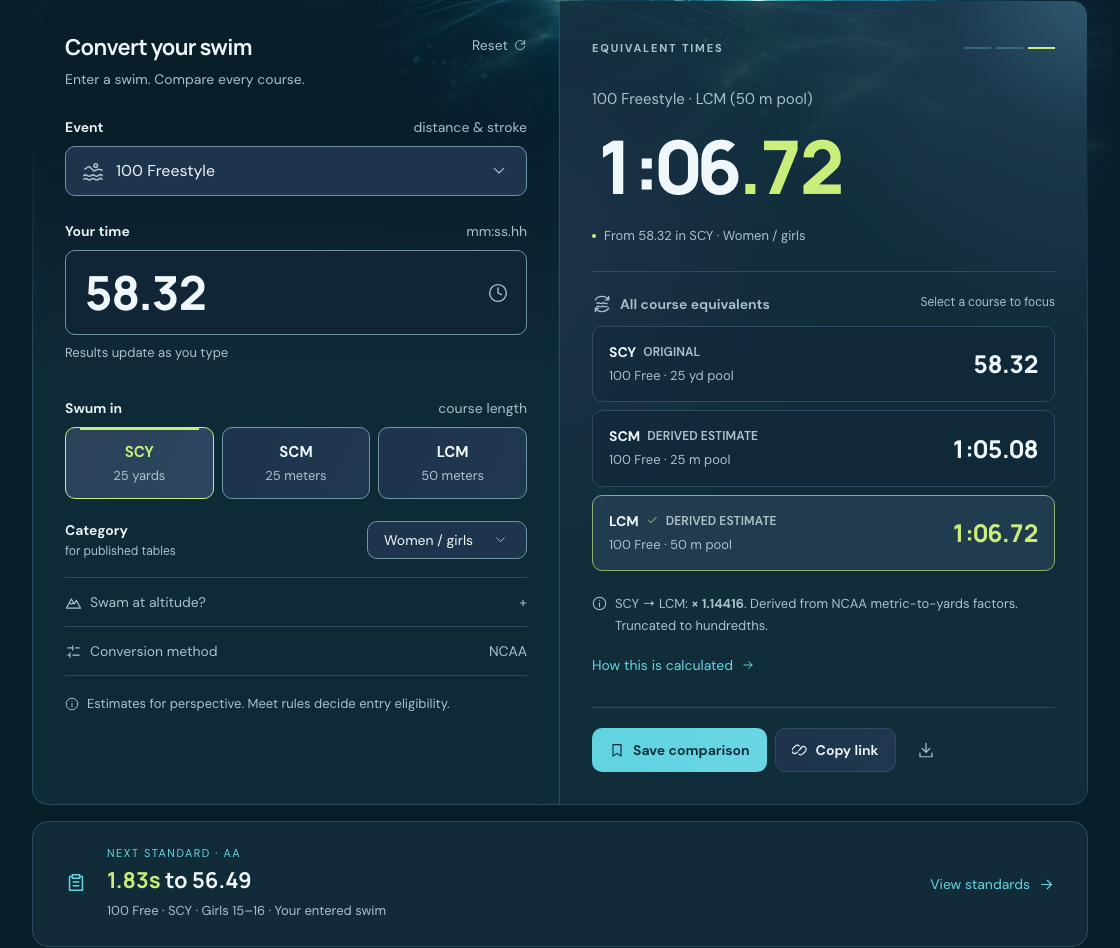
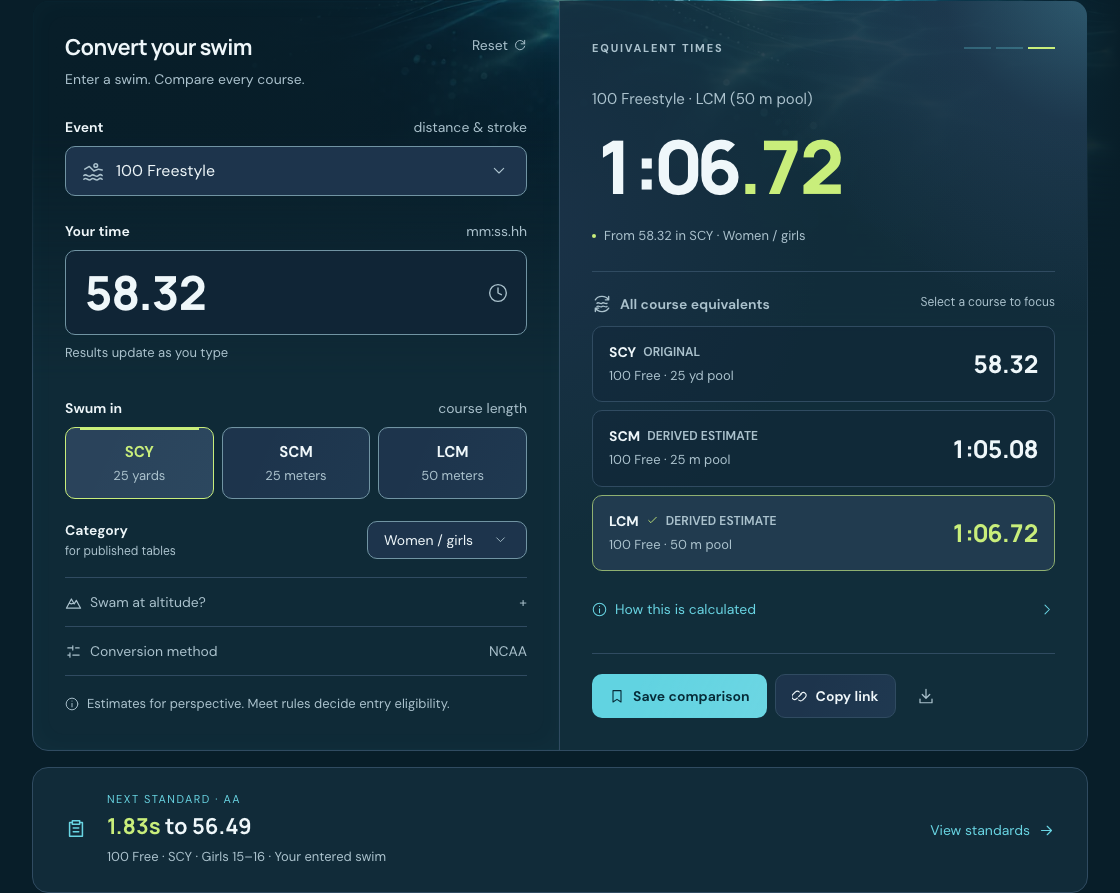
Tighten phone comparison and disclose calculation details

diff --git a/src/converter.css b/src/converter.css
@@ -643,11 +643,19 @@
   display: none;
 }
 .result-card:focus-visible {
-  background: color-mix(in srgb, var(--accent) 7%, transparent);
+  border-color: var(--tm-color-border-control);
+}
+.result-card.selected:focus-visible {
+  border-color: color-mix(in srgb, var(--highlight) 80%, var(--line));
 }
 @media (hover: hover) and (pointer: fine) {
   .result-card:hover {
     background: color-mix(in srgb, var(--accent) 7%, transparent);
+    border-color: var(--tm-color-border-control);
+  }
+  .result-card.selected:hover {
+    background: color-mix(in srgb, var(--selected) 74%, transparent);
+    border-color: color-mix(in srgb, var(--highlight) 80%, var(--line));
   }
 }
 .result-card.selected .result-card-top svg {
@@ -744,15 +752,32 @@
   flex-shrink: 0;
   font-size: 14px;
 }
-.result-explanation {
-  display: flex;
-  align-items: flex-start;
-  gap: 8px;
-  color: var(--muted);
-  margin-top: 22px;
+.result-method {
+  margin-top: var(--tm-space-16);
 }
-.result-explanation > svg {
-  margin-top: 3px;
+.result-method > summary {
+  display: flex;
+  align-items: center;
+  justify-content: space-between;
+  gap: var(--tm-space-12);
+  min-height: 44px;
+  color: var(--accent);
+  font-size: 14px;
+}
+.result-method > summary > span {
+  display: inline-flex;
+  align-items: center;
+  gap: var(--tm-space-8);
+}
+.result-method > summary > svg {
+  transition: transform 180ms ease;
+}
+.result-method[open] > summary > svg {
+  transform: rotate(90deg);
+}
+.result-explanation {
+  color: var(--muted);
+  padding-top: var(--tm-space-8);
 }
 .result-explanation p {
   font-size: 13px;
@@ -1164,17 +1189,22 @@
     font-size: 16px;
   }
   .focused-result {
-    margin-top: 26px;
-    margin-bottom: var(--tm-space-24);
+    margin-top: var(--tm-space-16);
+    margin-bottom: var(--tm-space-20);
   }
   .focused-context {
     font-size: 14px;
+    margin-bottom: var(--tm-space-8);
   }
   .focused-time {
     font-size: clamp(30px, 20cqw, 90px);
   }
   .focused-provenance {
     font-size: 13px;
+    margin-top: var(--tm-space-12);
+  }
+  .equivalents-title {
+    padding-top: var(--tm-space-16);
   }
   .equivalents-title > span {
     display: none;
@@ -1183,7 +1213,7 @@
     font-size: clamp(19px, 6cqw, 26px);
   }
   .result-card {
-    padding-block: 18px;
+    padding-block: var(--tm-space-12);
   }
   .result-card-top {
     font-size: 14px;
@@ -1195,8 +1225,14 @@
     font-size: 12px;
   }
   .result-actions {
-    gap: 7px;
-    margin-top: var(--tm-space-16);
+    display: grid;
+    grid-template-columns: minmax(0, 1fr) 44px;
+    gap: var(--tm-space-8);
+    margin-top: var(--tm-space-12);
+    padding-top: var(--tm-space-16);
+  }
+  .result-actions .primary-button {
+    grid-column: 1 / -1;
   }
   .result-actions .primary-button,
   .result-actions .secondary-button {

diff --git a/src/App.svelte b/src/App.svelte
@@ -910,24 +910,33 @@
             </button>
           {/each}
         </div>
-        <div class="result-explanation">
-          <Icon name="info" size={15} />
-          <p>
-            {#if error}Results will appear when your input is valid.{:else if focused.kind === "unavailable"}{focused.reason}{:else if focused.kind === "swum"}{adjustment
-                ? `Your sea-level estimate in ${form.course}.`
-                : "Your entered swim, exactly as timed."}{:else}{form.course} → {focus}:
-              <strong
-                >{`× ${focused.factor?.toFixed(5)}${focused.offsetSeconds ? ` ${focused.offsetSeconds > 0 ? "+" : "−"} ${Math.abs(focused.offsetSeconds).toFixed(2)}s` : ""}`}</strong
-              >. {form.method === coloradoMethod
-                ? "Colorado Timing formula."
-                : focused.kind === "published"
-                  ? "Published NCAA factor."
-                  : "Derived from NCAA metric-to-yards factors."} Truncated to hundredths.{/if}
-          </p>
-        </div>
-        <button class="text-button method-link" onclick={() => go("method")}
-          >How this is calculated <Icon name="arrow" size={14} /></button
-        >
+        <details class="result-method">
+          <summary>
+            <span><Icon name="info" size={15} />How this is calculated</span>
+            <Icon name="chevron" size={15} />
+          </summary>
+          <div class="result-explanation">
+            <p>
+              {#if error}Results will appear when your input is valid.{:else if focused.kind === "unavailable"}{focused.reason}{:else if focused.kind === "swum"}{adjustment
+                  ? `Your sea-level estimate in ${form.course}.`
+                  : "Your entered swim, exactly as timed."}{:else}{form.course} →
+                {focus}:
+                <strong
+                  >{`× ${focused.factor?.toFixed(5)}${focused.offsetSeconds ? ` ${focused.offsetSeconds > 0 ? "+" : "−"} ${Math.abs(focused.offsetSeconds).toFixed(2)}s` : ""}`}</strong
+                >. {form.method === coloradoMethod
+                  ? "Colorado Timing formula."
+                  : focused.kind === "published"
+                    ? "Published NCAA factor."
+                    : "Derived from NCAA metric-to-yards factors."} Truncated to hundredths.{/if}
+            </p>
+          </div>
+          <button class="text-button method-link" onclick={() => go("method")}
+            >View methodology &amp; sources <Icon
+              name="arrow"
+              size={14}
+            /></button
+          >
+        </details>
         <div class="result-actions">
           <button class="primary-button" onclick={save} disabled={!!error}
             ><Icon name="bookmark" size={16} />Save comparison</button

diff --git a/tests/app.spec.ts b/tests/app.spec.ts
@@ -88,6 +88,45 @@ test("conversion method is optional, persists and round-trips through comparison
   ).toBeVisible();
 });
 
+test("calculation details stay optional and keyboard accessible", async ({
+  page,
+}, testInfo) => {
+  await openExample(page, "/");
+  const details = page.locator(".result-method");
+  const summary = details.locator("summary");
+  await expect(details).not.toHaveAttribute("open");
+  await expect(page.locator(".result-explanation")).not.toBeVisible();
+  await summary.focus();
+  await page.keyboard.press("Enter");
+  await expect(details).toHaveAttribute("open");
+  await expect(page.locator(".result-explanation")).toContainText("NCAA");
+  await page.getByTestId("result-SCY").click();
+  await expect(page.locator(".result-explanation")).toHaveText(
+    "Your entered swim, exactly as timed.",
+  );
+  await summary.focus();
+  await page.keyboard.press("Enter");
+  await expect(details).not.toHaveAttribute("open");
+  if (testInfo.project.name === "mobile") {
+    // At the reviewed phone viewport the complete comparison and actions fit.
+    // Smaller browser viewports still scroll normally, as the navigation case checks.
+    await page.setViewportSize({ width: 390, height: 844 });
+    await page.emulateMedia({ reducedMotion: "reduce" });
+    await page.getByTestId("result-LCM").click();
+    await page
+      .getByRole("button", { name: "See your results", exact: true })
+      .click();
+    expect(
+      await page.evaluate(
+        () =>
+          document.querySelector(".result-actions")!.getBoundingClientRect()
+            .bottom <=
+          document.querySelector(".mobile-nav")!.getBoundingClientRect().top,
+      ),
+    ).toBe(true);
+  }
+});
+
 test("mobile age selectors leave space for their complete selected label", async ({
   page,
 }) => {
@@ -575,7 +614,10 @@ test("mobile navigation reaches history and standards without covering content",
   await expect(
     nav.getByRole("button", { name: "Standards", exact: true }),
   ).toHaveAttribute("aria-current", "location");
-  await page.getByRole("button", { name: "How this is calculated" }).click();
+  await page.locator(".result-method summary").click();
+  await page
+    .getByRole("button", { name: "View methodology & sources" })
+    .click();
   await expect(page.locator("#method")).toBeInViewport();
   expect(
     await page.evaluate(

diff --git a/docs/CONVERTER_LAYOUT_EXPLORATION.md b/docs/CONVERTER_LAYOUT_EXPLORATION.md
@@ -1,6 +1,6 @@
 # Converter layout exploration
 
-The first web layout pass is implemented in draft PR26, separate from
+The web layout and polish passes are implemented in draft PR26, separate from
 conversion-model research. It is ready for visual review; it has not been
 merged or adopted by the native apps.
 
@@ -24,7 +24,7 @@ web/native layout or a native redesign.
 
 ## Implemented web flow
 
-The next exploration should make the starting point clearer: **enter a swim →
+The implemented flow makes the starting point clearer: **enter a swim →
 compare course equivalents → explore targets or methods**. On a narrow screen,
 editable inputs come before the result. Preserve the desktop side-by-side
 comparison; do not shrink that entire composition into a phone.
@@ -99,11 +99,27 @@ not evidence that native apps have adopted blank or input-first arrival.
 [Colorado method and unchanged original-course next standard](screenshots/web-converter-method-dark.png) ·
 [320px long-time and enlarged-root-text content review](screenshots/web-converter-large-text.png)
 
+[Full desktop composition with the water artwork](screenshots/web-converter-desktop-layout-dark.png) ·
+[Phone calculation disclosure and actions](screenshots/web-converter-method-mobile.png)
+
+The polish pass keeps the multiplier/source explanation in a native HTML
+disclosure, closed initially, with a route to the full methodology inside it.
+Original/published/derived labels stay visible on the course rows. The disclosure
+supports keyboard activation and continues to follow the selected course.
+Selected row hover retains its selection fill and adds a restrained border
+highlight; the surrounding numerical panel remains static.
+
+Phone rows and vertical gaps are tighter. Save comparison takes a full row,
+followed by Copy link and the download action. At the reviewed 390×844 viewport,
+the default three-course comparison and all actions fit above bottom navigation
+after See your results. Shorter screens, expanded details and larger text scroll
+normally; this is not a fixed-height panel or a requirement to shrink text.
+
 The desktop capture uses Chromium at 1120×1450, device scale 1, reduced motion,
 and a crop of `#converter`. It excludes the hero deliberately so controls and
 results remain legible in the README. Light/dark use the same 100 freestyle,
 women/girls, age 15–16, SCY, 58.32 sample and NCAA default. The method supplement
-opens Conversion method and selects documented Colorado Timing, yielding
+opens Conversion method and the calculation disclosure, then selects documented Colorado Timing, yielding
 1:06.33 LCM; the AA gap remains 1.83s because it uses the original SCY swim.
 
 Mobile captures use 390×844 and ordinary viewport screenshots, with the input or
@@ -123,11 +139,13 @@ the full standards view rather than inventing a compact target.
 
 ## Completion checks
 
-This first pass passes Svelte/TypeScript checks, 138 unit tests, 41 browser cases
+This pass passes Svelte/TypeScript checks, 138 unit tests, 43 browser cases
 (one desktop-inapplicable case skipped), and 20 production/offline cases.
 Light/dark screenshots, 320px controls, enlarged root text, invalid/unavailable
-results, method sharing/persistence and keyboard focus were reviewed. CI and
-owner review remain pending. No native layout or widget/MCP presentation changed.
+results, method sharing/persistence, keyboard focus/disclosure and phone action
+visibility were reviewed. The preceding layout commit passed hosted CI; the new
+polish commit and owner review remain pending. No native layout or widget/MCP
+presentation changed.
 
 - Confirm which layout to keep through actual desktop/mobile browser previews.
 - Keep calculations, unsupported/invalid states, offline behavior, shared links,
